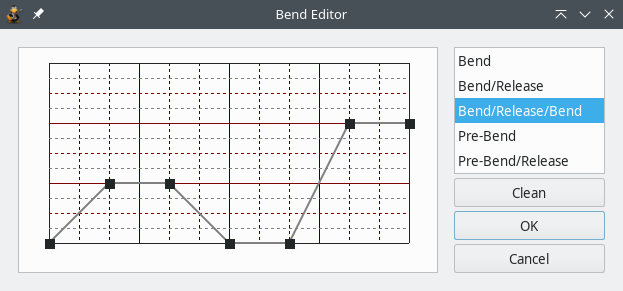
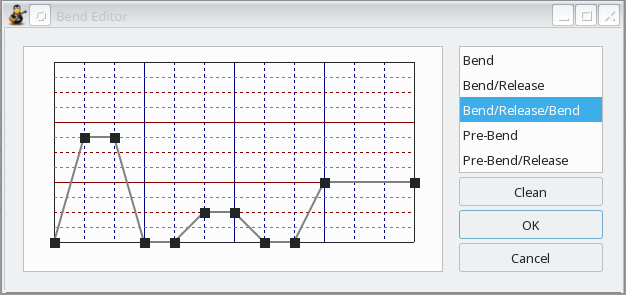
very minor corrections
a few typos or minor precisions
one screenshot updated for consistency with help text

Changed region(s): [[0.0, 0.0, 1.0, 1.0]]

diff --git a/TuxGuitar/share/help/edit_effects.html b/TuxGuitar/share/help/edit_effects.html
@@ -75,7 +75,7 @@
       <td valign="top">
         <h1>Note effects</h1>
         <p>As you already know, playing guitar (and any other instrument) isn’t just playing the notes in the right duration and dynamics. There are several "tricks" that are unique for any instrument. TuxGuitar supports effects specific for guitar and bass guitar.</p>
-        <p>Almost all note effects have an icon on the toolbar, but also can be accessed in <strong>Beat → Effects</strong> menu. The effect is applied on the current cursor position.</p>
+        <p>Almost all note effects have an icon on the toolbar, but also can be accessed in <strong>Beat → Effects</strong> menu. If several notes are selected with click &amp; drag then effect is applied on all selected notes. Else, the effect is applied on the current cursor position.</p>
         <p><img src="images/effects.png" /></p>
         <h2 id="dead_note">Dead note</h2>
         <p>Dead note (sometimes referred as rake) is a playing effect which produces more of a percussive effect than a regular note with its pitch. Dead note has short and "clicking" sound. It is used very often by guitar players.</p>
@@ -139,9 +139,9 @@
         <p>In TuxGuitar, applying a bend effect to the note opens the Bend Editor dialog, which allows you fine tuning of the bend, showing you exactly how much tension your finger should use. Of course, the result of your modification can be heard.</p>
         <p><img src="images/effects_bend.png" /></p>
         <p>First, notice the list box on the right of the dialog. Those are the presets which are most often used: <strong>Bend</strong>, <strong>Bend/Release</strong>, <strong>Bend/Release/Bend</strong>, <strong>Pre-Bend</strong> and <strong>Pre-Bend/Release</strong>. <strong>Bend</strong> only makes gradual transition to the target note, while <strong>Bend/Release</strong> also returns it to the beginning note. <strong>Pre-Bend</strong> is played when you first bend (add tension) to the string, and <em>after that</em> pick the string, so the first tone heard has higher pitch, and then gradually returns to the original note. You should notice that all the presets make bend 1 note (2 frets) higher, so you may need some intervention in the Editor to make the bend sound properly.</p>
-        <p>The Editor allows you fine bend tuning by drawing a graphic function of the bending amount (or pitch modulation/string tension). It works by placing dots in a diagram which are automatically connected with lines. The higher the dot is placed, the greater the bending amount will be. Notice that the diagram is separated horizontally with gray and red lines. Each full red line represents the pitch shift by 1 tone (2 frets), and each dashed red line represents the pitch shift by a semitone (1 fret). Gray line represents the pitch shift of 1/4 of a tone, which is 1/2 of a fret which is called a non-tempered note or "blue" note. The vertical blue lines divide the note duration on quarters, and dashed blue lines divide your note duration in 1/12 segments. You can place the dot only on intersection of a blue line and red/gray line. Left click places a dot, and right click on the dot removes it.</p>
+        <p>The Editor allows you fine bend tuning by drawing a graphic function of the bending amount (or pitch modulation/string tension). It works by placing dots in a diagram which are automatically connected with lines. The higher the dot is placed, the greater the bending amount will be. Notice that the diagram is separated horizontally with gray and red lines. Each full red line represents the pitch shift by 1 tone (2 frets), and each dashed red line represents the pitch shift by a semitone (1 fret). Gray line represents the pitch shift of 1/4 of a tone, which is 1/2 of a fret which is called a non-tempered note or "blue" note. The vertical blue lines divide the note duration on quarters, and dashed blue lines divide your note duration in 1/12 segments. You can place the dot only on intersection of a blue line and red/gray line. Left or right click can be used to place or remove a dot.</p>
         <p>So, the bend represented on the picture above is a complex one: the first peak is almost a 2-tone bend/release (it is a slight <em>underbend</em>, because it bends for 3.5 frets), the second one is a slight bend shift to one higher half-tone (1 fret) and back, and the third bends one whole-tone (2 frets) and stays there for a little while.</p>
-        <p>If you have an existing vibrato effect applied to the note and click on the "Clean" button in the dialog, the effect will be removed.</p>
+        <p>If you have an existing bend effect applied to the note and click on the "Clean" button in the dialog, the effect will be removed.</p>
         <p>A bend effect will be displayed with a curved up arrow in the tab view and a number indicating the pitch shift of the note.</p>
         <h2 id="tremolo_bar">Tremolo bar</h2>
         <p>Tremolo bar is a term in TuxGuitar for all the effects you can make with a guitar tremolo arm. It allows note pitch shift in both directions and with a higher range of modulation. With tremolo bar effect TuxGuitar can modify the original note very precisely with the modulation diagram, allowing the pitch change up and down whole octave (8 tones, 12 frets) from the original tone.</p>

diff --git a/TuxGuitar/share/help/detail_composition_track.html b/TuxGuitar/share/help/detail_composition_track.html
@@ -80,7 +80,7 @@
         <p><img src="images/composition.png" /></p>
         <p>A time signature must be defined for each song. Usually it is 4/4, but sometimes it has some different value (3/4 for waltz, 7/8, etc.). Time signature applies for all the tracks. It can be changed in the middle of the song - when you change the value, the time signature will be changed <em>from the current cursor position until the end</em>.</p>
         <p>Clicking on the icon with the "<strong>4/4</strong>" graphic or the menu entry <strong>Composition → Time Signature</strong> will bring up the time signature dialog, which is pretty straight-forward. You have a separate pulldown menu for each half of the time signature, as well as a "To the end" check box. TuxGuitar supports multiple time signature changes throughout the song, and much like tempo changes, they are as easy to create as clicking the 4/4 icon and setting a new time signature in the measure where you wish it to change. Checking the "To the end" box will cause your newly-selected time signature to continue either to the end of the song, or until you manually change the time signature in any of the following measures. Unchecking the "To the end" box will cause the new time signature to span only the measure you add it to, after which it will automatically reset to the time signature used by the previous measure.</p>
-        <p>Each song also has a <strong>Tempo</strong>. It indicates how many beats (1/4 notes) the song has in a minute - it is marked in BPM’s - Beats Per Minute. New songs in TuxGuitar default to 100 BPM, but you can set your own tempo to anything between 30-320 BPM. The tempo applies for all the tracks in the song. The tempo set in the first measure will be the default tempo either throughout the song, or until you set another tempo in any of the following measures. When you change the value, tempo will be changed <em>from the current cursor position until the end</em> of the song.</p>
+        <p>Each song also has a <strong>Tempo</strong>. It indicates how many beats (1/4 notes) the song has in a minute - it is marked in BPM’s - Beats Per Minute. New songs in TuxGuitar default to 120 BPM, but you can set your own tempo to anything between 30-320 BPM. The tempo applies for all the tracks in the song. The tempo set in the first measure will be the default tempo either throughout the song, or until you set another tempo in any of the following measures. When you change the value, tempo will be changed <em>from the current cursor position until the end</em> of the song.</p>
         <p>The <strong>Clef</strong> affects the song display in scores. Clefs are used to mark the specific pitch of the note, so all other notes’ pitch can be determined. Clef is placed on the beginning of the scores. There are three types of clefs supported in TuxGuitar: treble (default), bass, alto and tenor, which are the most usual clefs. Custom clefs are not supported. Clef can be changed in the middle of the song - when it’s changed the scores display changes from that position and further.</p>
         <p>The <strong>Key Signature</strong> affects the way the notes are written in scores. They represent the current scale the song is written in, so there’s no need to constantly write <em>sharp</em> and <em>flat</em> marks. When you choose to change the key signature, a dialog appears with all available key signatures. <strong>Natural</strong>, for example, represents the C-major, <strong>one flat</strong> represents F-major, etc.</p>
         <p><strong>Triplet Feel</strong> (also: <em>shuffle</em> or <em>swung</em> notes) is a rhythmic pattern in which the duration of the first note in a pair is augmented and that of the second is diminished. This effect is often used in jazz/swing and blues music. TuxGuitar triplet feel divides the note par in 2:1 ratio. <em>Triplet 8th</em> divides a pair of 1/8 notes and <em>Triplet 16th</em> divides a pair of 1/16 notes into 2:1 ratio.</p>

diff --git a/TuxGuitar/share/help/detail_file_edit.html b/TuxGuitar/share/help/detail_file_edit.html
@@ -94,7 +94,7 @@
           <li><strong>File → Save As</strong> (<strong>F12</strong>): Saves the file in the active tab to a new file.</li>
           <li><strong>File → Import</strong>: Here you can import Tef or MIDI files into TuxGuitar.</li>
           <li><strong>File → Export</strong>: Songs can be exported as SVG, Audio (WAF and others), MIDI, Lilypond, MusicXML, PDF, ASCII or old TuxGuitar formats.</li>
-          <li><strong>File → Print Preview</strong>: Opens a new Windows where you can see how the file would be printed.</li>
+          <li><strong>File → Print Preview</strong>: Opens a new window where you can see how the file would be printed.</li>
           <li><strong>File → Print</strong> (<strong>Ctrl+P</strong>): Prints the file. You can choose to only print one or all tracks, select a mesure range and various other options.</li>
           <li><strong>File → History</strong>: Here you can directly access up to 10 recently opened files.</li>
         </ul>
@@ -105,8 +105,8 @@
         <p>Here we are explaining all actions under the <strong>Edit</strong> pulldown menu.</p>
         <h3>Cut, Copy and Paste</h3>
         <ul>
-          <li><strong>Edit → Cut</strong> (<strong>Ctrl+X</strong>): Deletes the current selection and copys the content into the clipboard. This only works on selections.</li>
-          <li><strong>Edit → Copy</strong> (<strong>Ctrl+C</strong>): Copys the current selection into the clipboard. If nothing is selected, a dialog opens where you can choose the mesures to copy and wheather to copy these measures only from the current track or from all tracks.</li>
+          <li><strong>Edit → Cut</strong> (<strong>Ctrl+X</strong>): Deletes the current selection and copies the content into the clipboard. This only works on selections.</li>
+          <li><strong>Edit → Copy</strong> (<strong>Ctrl+C</strong>): Copies the current selection into the clipboard. If nothing is selected, a dialog opens where you can choose the mesures to copy and wheather to copy these measures only from the current track or from all tracks.</li>
           <li><strong>Edit → Paste</strong> (<strong>Ctrl+V</strong>): Inserts the copied notes or measures at the current cursor position. When a selection is pasted, the previous content will be overwritten. If you paste previously copied measures, you can select whether to overwrite the current content of the target measures or to insert new measures.</li>
           <li><strong>Edit → Repeat</strong> (<strong>Ctrl+R</strong>): Here you can copy the current selection into the clipboard and insert it directly after that in one step.</li>
         </ul>

diff --git a/TuxGuitar/share/help/detail_view.html b/TuxGuitar/share/help/detail_view.html
@@ -103,7 +103,7 @@
         <p>The third button enables <strong>Multitrack</strong> view. When enabled, all the tracks will be displayed in the main window. Depending on your previous choice (Page or Linear Layout) you will see a different view. In my personal experience, good combinations are Linear+Multitrack, and Page Layout without Multitrack (for single instrument view).</p>
         <p>The fourth button is <strong>Show Scores</strong>. It simply views the scores (notation) above your tab line.</p>
         <p><strong>Show Tablature</strong> enables or disables the tablature line in the main view.</p>
-        <p>The last button enables the <strong>Compact</strong> view. You would like to enable it when you consider your view too wide.</p>
+        <p>The last button enables the <strong>Compact</strong> view. You would like to enable it when you consider your view too wide. Note that in this mode some details may be hidden (e.g. <i>Bend</i> effect details).</p>
         <p>In the submenu <strong><a href="edit_chord.html#chord_style">View → Chord Style</a></strong> you can choose how chords are displayed in the main tab view.</p>
         <h2 id="zoom">Zoom</h2>
         <p>The last section in the <strong>View</strong> pulldown menu controls how big or small the scores and tablatures are shown: <strong>Zoom In</strong> to enlarge, <strong>Zoom Out</strong> to shrink or <strong>Reset</strong> the zoom to turn back to the default size.</p><br />

diff --git a/TuxGuitar/share/help/about.html b/TuxGuitar/share/help/about.html
@@ -77,9 +77,9 @@
         <h2>Description</h2>
         <p>TuxGuitar is a multitrack tablature editor and player written in Java using SWT Graphic libraries. It is a multi-platform application available for Linux, Windows, MacOS, FreeBSD and other operating systems. TuxGuitar is open-source software, released under the GNU Lesser General Public License.</p>
         <h2>Website</h2>
-        <p>You should check TuxGuitar project website on <b>https://github.com/helge17/tuxguitar</b>.</p>
+        <p>You should check TuxGuitar project website on <b><a href=https://github.com/helge17/tuxguitar>https://github.com/helge17/tuxguitar</a></b>.</p>
         <h2>Source repository</h2>
-        <p>TuxGuitar source repository can be browsed on <b>https://github.com/helge17/tuxguitar</b>.</p>
+        <p>TuxGuitar source repository can be browsed on <b><a href=https://github.com/helge17/tuxguitar>https://github.com/helge17/tuxguitar</a></b>.</p>
         <h2>Contribution</h2>
         <p>If you have sufficient skills and some ideas, you are free to join the project.</p>
         <h2>Authors</h2><br />

diff --git a/TuxGuitar/share/help/start_menus_toolbars.html b/TuxGuitar/share/help/start_menus_toolbars.html
@@ -83,7 +83,7 @@
         <p>Both bars can be enabled and disabled by clicking on the menu items <strong>Show Main Toolbar</strong> and <strong>Show Edit Toolbar</strong> in the <strong>View</strong> menu.</p>
         <h2>The Context Menus</h2>
         <p>Right-clicking in the score or the tablature gives you quick access to the main entries to edit the track at the current position. The menu items are the same as in the pulldown menu.</p>
-        <p>When you right-click on a track in the track list on the bottom of the main window, you can directly call all funcions from the <strong>Track</strong> pulldown menu.</p><br />
+        <p>When you right-click on a track in the track list on the bottom of the main window, you can directly call all functions from the <strong>Track</strong> pulldown menu.</p><br />
         <br />
       </td>
     </tr>

diff --git a/TuxGuitar/doc/README.md b/TuxGuitar/doc/README.md
@@ -23,7 +23,7 @@ TuxGuitar includes the following third party products:
 
 ## Installation
 
-You can find ready to use installation packages for Linux, Windows, MacOS, FreeBDS and Android on
+You can find ready to use installation packages for Linux, Windows, MacOS, FreeBSD and Android on
 
 https://github.com/helge17/tuxguitar/releases/
 

diff --git a/TuxGuitar/doc/INSTALL.md b/TuxGuitar/doc/INSTALL.md
@@ -1,6 +1,6 @@
 # Install TuxGuitar
 
-You can find ready to use installation packages for Linux, Windows, MacOS FreeBDS and Android on
+You can find ready to use installation packages for Linux, Windows, MacOS FreeBSD and Android on
 
 [https://github.com/helge17/tuxguitar/releases/](https://github.com/helge17/tuxguitar/releases/)
 
